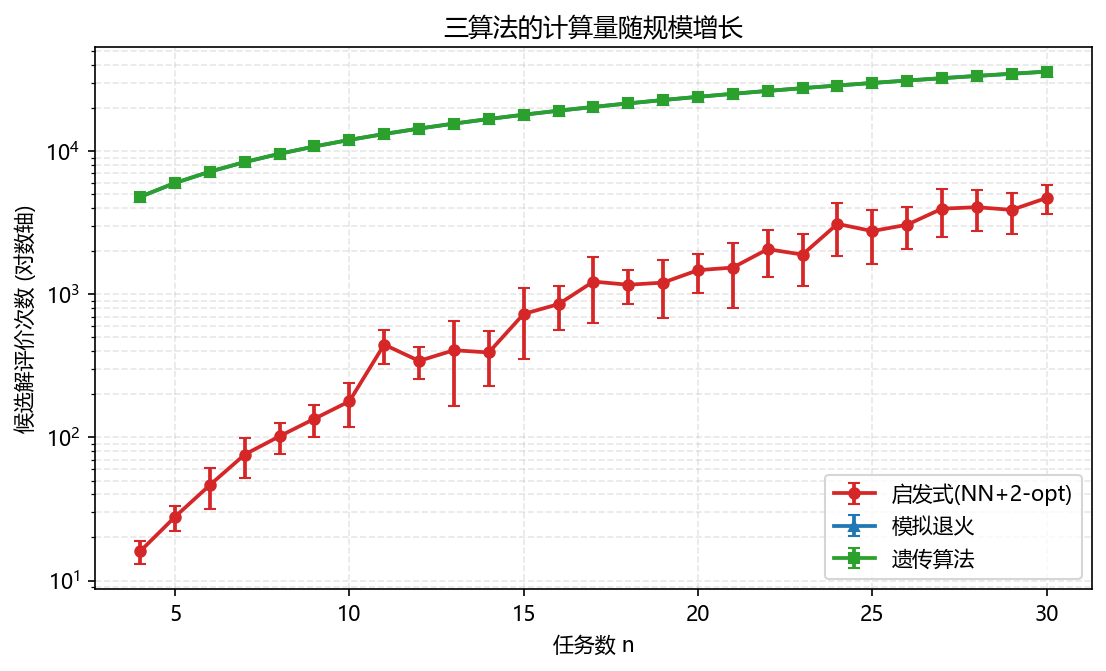
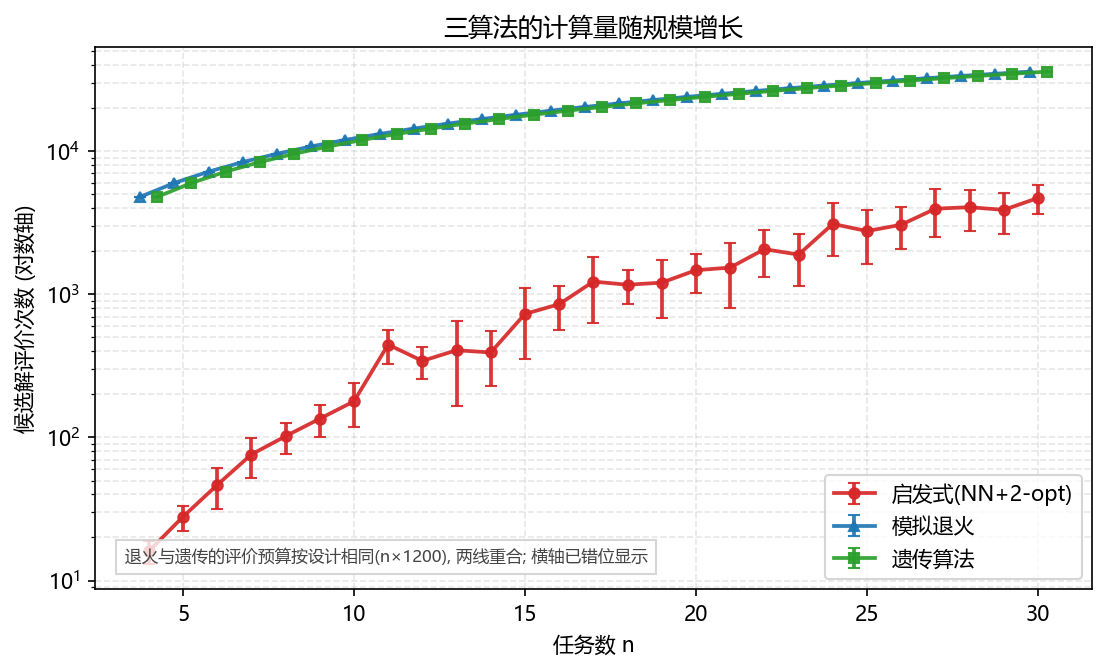
fix: 图4退火/遗传评价次数曲线重合(错位显示+报告说明)

diff --git a/experiment_report.py b/experiment_report.py
@@ -284,24 +284,31 @@ def plot_time(rows):
 
 
 def plot_evals(rows):
-    """图4: 三算法评价次数 vs n (对数轴)"""
+    """图4: 三算法评价次数 vs n (对数轴)
+    注意: 退火与遗传的评价预算按设计相同(均为 n*1200 左右), 两线会重合,
+    这里给退火/遗传各加 ±0.2 的横轴错位, 并在图上标注, 避免误以为少了一条线."""
     fig, ax = _new_fig()
     sizes = sorted({r["n"] for r in rows})
+    offsets = {"heuristic": 0.0, "simanneal": -0.25, "genetic": 0.25}
     for algo in ALGO_ORDER:
         xs, ys, errs = [], [], []
         for n in sizes:
             vals = [r[algo]["evals"] for r in rows if r["n"] == n]
             if vals:
                 m, s = mean_std(vals)
-                xs.append(n)
+                xs.append(n + offsets[algo])
                 ys.append(m)
                 errs.append(s)
-        _line(ax, xs, ys, errs, algo)
+        _line(ax, xs, ys, errs, algo, alpha=0.92)
     ax.set_yscale("log")
     ax.set_xlabel("任务数 n")
     ax.set_ylabel("候选解评价次数 (对数轴)")
     ax.set_title("三算法的计算量随规模增长")
     ax.grid(alpha=0.3, linestyle="--", which="both")
+    ax.text(0.03, 0.05,
+            "退火与遗传的评价预算按设计相同(n×1200), 两线重合; 横轴已错位显示",
+            transform=ax.transAxes, fontsize=8, color="#444444",
+            bbox=dict(facecolor="white", alpha=0.8, edgecolor="#cccccc"))
     ax.legend()
     _save_fig(fig, "fig4_evals.png")
 
@@ -423,6 +430,9 @@ def build_report(rows_main, rows_win, rows_prio):
     md.append("\n## 4. 结果二: 耗时与计算量\n")
     md.append("![time](charts/fig3_time.png)\n")
     md.append("![evals](charts/fig4_evals.png)\n")
+    md.append("退火与遗传的评价次数曲线在图里几乎重合, 这不是漏画: 两者默认参数都约等于 n×1200 次评价"
+              "(`退火迭代数=n×1200`, `遗传代数×种群=60×(n×20)`), 是有意的**同预算公平对比**——"
+              "同样的评价次数, 看谁最后更优。\n")
     md.append("### 按规模分组的平均耗时\n")
     groups = [(4, 8, "4~8"), (9, 15, "9~15"), (16, 22, "16~22"), (23, 30, "23~30")]
     tbl = [["规模", "实例数", "启发式", "模拟退火", "遗传算法"]]
@@ -575,6 +585,8 @@ def main():
 
 if __name__ == "__main__":
     main()
+
+
 
 
 

diff --git a/experiment/实验报告.md b/experiment/实验报告.md
@@ -1,6 +1,6 @@
 # 实验报告: 带时间窗 TSP/VRP 的三算法对比与消融
 
-> 生成时间: 2026-09-01 10:26  ·  全部实例与算法随机种子固定, 结果可复现
+> 生成时间: 2026-09-01 10:53  ·  全部实例与算法随机种子固定, 结果可复现
 
 ## 1. 研究问题
 
@@ -54,6 +54,8 @@ n>8 全排列(9!≈36万)已经太慢, 我们改用**三算法里最好的那个
 ![time](charts/fig3_time.png)
 
 ![evals](charts/fig4_evals.png)
+
+退火与遗传的评价次数曲线在图里几乎重合, 这不是漏画: 两者默认参数都约等于 n×1200 次评价(`退火迭代数=n×1200`, `遗传代数×种群=60×(n×20)`), 是有意的**同预算公平对比**——同样的评价次数, 看谁最后更优。
 
 ### 按规模分组的平均耗时
 
